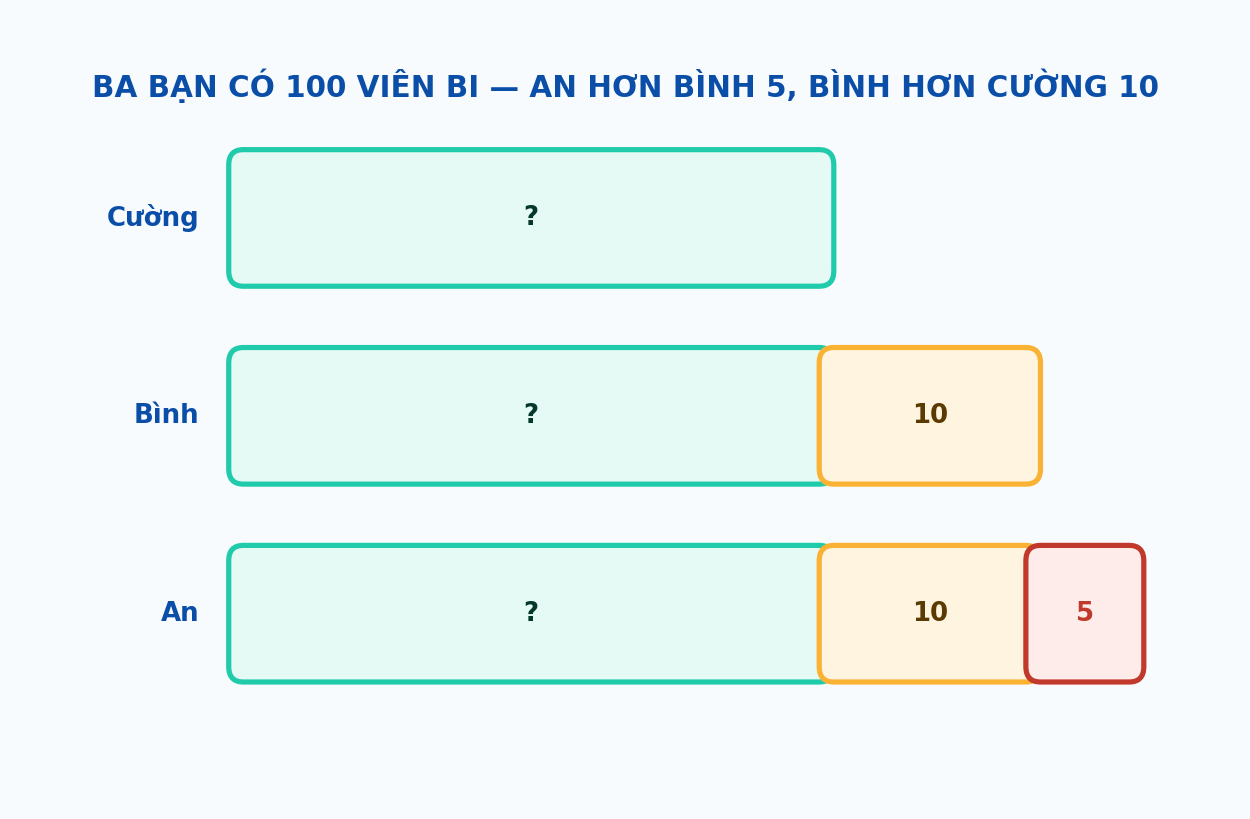
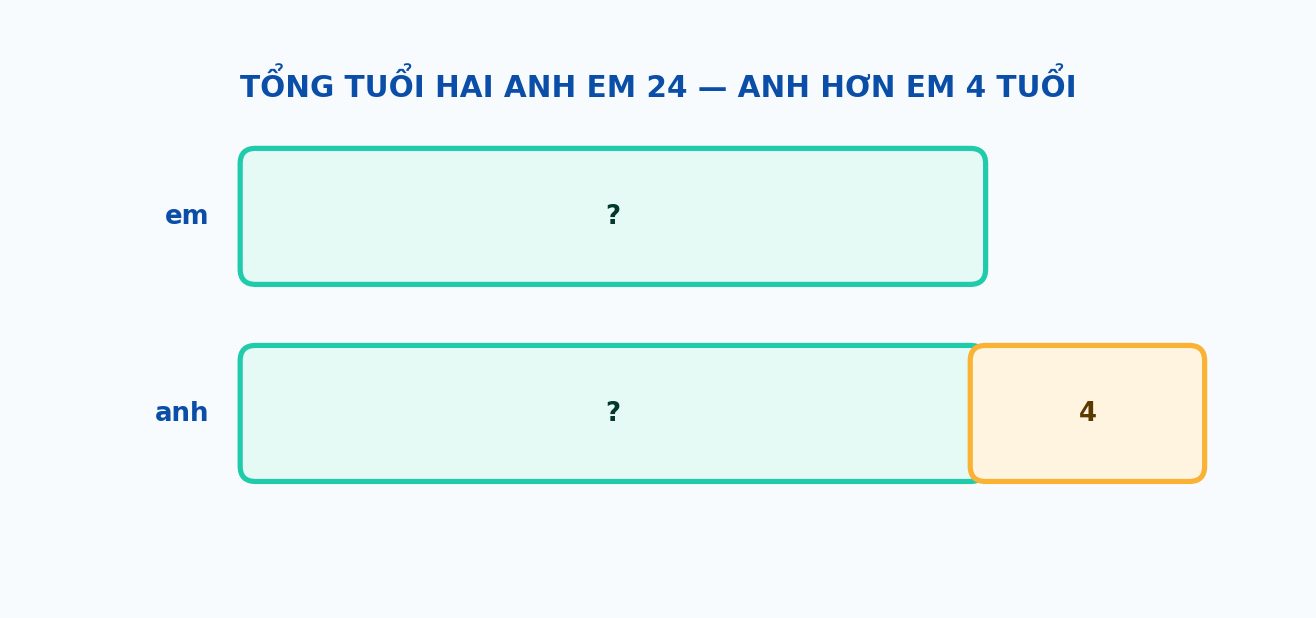
Màn mở bài: bỏ chỗ lộ đáp, trả lại ĐỀ BÀI đủ nghĩa
Bác đọc mở bài phần chuyển động mà không hiểu gì. Mở ra xem thì có ba lỗi
chồng lên nhau, và cả ba đều nằm ở chỗ bé đọc ĐẦU TIÊN.

1 · MỞ BÀI IN SẴN CÂU CHỐT — tức lộ hết cách làm.
`StepView` in `knowledgeCore.mantra` bằng chữ to nhất màn hình ngay màn đầu,
trước khi bé thấy bài toán nào: "TRÊN VÒNG TRÒN, KHOẢNG CÁCH CẦN GẶM LÀ CẢ MỘT
VÒNG!". Hỏng hai đường — mất hết lý do phải nghĩ, mà câu chốt lúc ấy cũng vô
nghĩa vì bé chưa có gì để gắn nó vào. `buildFlow` vốn ĐÃ có riêng một bước
`mantra` đặt sau khi giảng xong và sau câu tự kiểm, đúng chỗ của nó; hộp ở màn
mở chỉ là bản sao đặt nhầm chỗ. Nay thay bằng một câu mời, và nút đổi thành
"Xem bài toán ▶".

2 · 38/44 LỜI DẪN LỚP 4 LÀ MẨU CÂU CỤT.
"sau bao nhiêu giờ xe buýt đuổi kịp xe đồ." — không biết xe nào, cách nhau bao
xa, đi nhanh chậm ra sao, mà lại viết thường ngay chữ đầu. Do đợt trước chữa
bẫy 32 tôi chỉ lấy dòng `HỎI GÌ?` của mục ③, bỏ mất dòng `CHO GÌ?` — nơi chứa
toàn bộ dữ kiện. Nay ghép cả hai, vẫn không dựng câu mới:

  Xe đồ ở trước 30 km, mỗi giờ đi 30 km; xe buýt mỗi giờ đi 40 km, đuổi theo
  cùng chiều. Hỏi sau bao nhiêu giờ xe buýt đuổi kịp xe đồ?

Phân biệt câu HỎI với câu SAI KHIẾN: "Hỏi tìm X" không phải tiếng Việt, nên
câu sai khiến đứng một mình và đóng bằng dấu chấm.

3 · BA BÀI CÒN SÓT BẪY 32 — lời và hình kể HAI bài toán khác nhau:
  B22 lời "tổng tuổi hai anh em 24"      · hình vẽ "ba bạn có 100 viên bi"
  B33 lời "bánh 3/4 và 5/8"              · hình hỏi "7/8 hay 9/10"
[…]

Changed region(s): [[0.0624, 0.0922, 0.936, 0.8608], [0.1248, 0.7379, 0.156, 0.7686]]

diff --git a/web/src/components/StepView.jsx b/web/src/components/StepView.jsx
@@ -33,6 +33,15 @@ export default function StepView({ step, lesson, onNext, onJump, onRecord, log, 
   switch (step.type) {
     /* ══ MỞ BÀI ══ */
     case 'intro':
+      /* ── VÌ SAO MÀN NÀY KHÔNG CÒN IN CÂU CHỐT ──
+         Trước đây ngay dưới đây là một hộp vàng chữ to in nguyên `knowledgeCore.mantra`
+         — tức TOÀN BỘ cách làm của bài. Bé chưa thấy đề bài nào đã được đọc đáp. Hỏng
+         hai đường: mất hết lý do phải nghĩ, mà câu chốt lúc ấy cũng vô nghĩa vì bé chưa
+         có gì để gắn nó vào. `buildFlow` vốn đã có RIÊNG một bước `mantra` đặt SAU khi
+         giảng xong và sau câu tự kiểm — đúng chỗ của nó. Nên hộp ở đây chỉ là bản sao
+         đặt nhầm chỗ, bỏ đi là hết lộ bài mà không mất gì.
+
+         Thay vào là câu MỜI, nói bé sắp làm gì chứ không nói trước kết quả. */
       return (<>
         <div className="card">
           <div className="kicker">MICRO · KHOẢNG {lesson.durationMinutes} PHÚT</div>
@@ -55,10 +64,11 @@ export default function StepView({ step, lesson, onNext, onJump, onRecord, log, 
             Đường đi của bài: <b>Giảng nguyên tắc → Xem bài mẫu → Tự luyện → Sát hạch lấy huy hiệu</b>
           </div>
         </div>
-        <div className="rounded-2xl bg-gradient-to-br from-gold to-[#fcd88a] px-4 py-5 text-center text-[19px] font-extrabold leading-snug text-gold-dark">
-          🔑 {K.mantra}
+        <div className="rounded-2xl bg-gradient-to-br from-gold to-[#fcd88a] px-4 py-4 text-center text-[17px] font-extrabold leading-snug text-gold-dark">
+          Mình bắt đầu bằng một bài toán nhé — con thử nghĩ trước,
+          rồi mình cùng tìm cách làm.
         </div>
-        <Foot label="Bắt đầu ▶" onClick={onNext} />
+        <Foot label="Xem bài toán ▶" onClick={onNext} />
       </>);
 
     case 'hook':

diff --git a/tools/khuon_chung.py b/tools/khuon_chung.py
@@ -45,6 +45,40 @@ R_BUOC = re.compile(r'^(?:' + '|'.join(TEN_BUOC) + r')\s*\d+\s*[.—–-]'
                     r'|^(?:MẸO|LUẬT)[^:]*:')
 
 
+def _hoa_dau(s):
+    """Viết hoa chữ cái đầu, giữ nguyên phần còn lại.
+
+    `str.capitalize()` thì hạ chữ hoa ở phần sau xuống thường — mà đề bài đầy tên
+    riêng và đơn vị viết hoa (Trí Long, TỔNG, km/h), nên phải chừa chúng ra.
+    """
+    s = (s or '').lstrip()
+    return s[:1].upper() + s[1:] if s else s
+
+
+# Động từ mở đầu một câu SAI KHIẾN. "Hỏi tìm X" hay "Hỏi đọc số ấy" không phải
+# tiếng Việt — câu sai khiến đứng một mình đã đủ nghĩa, chỉ câu HỎI mới cần chữ
+# "Hỏi" dẫn vào. Danh sách lấy từ chính 44 dòng `HỎI GÌ?` của sách lớp 4.
+_SAI_KHIEN = ('đọc', 'viết', 'tìm', 'tính', 'lập', 'nêu', 'so sánh', 'xếp', 'đếm',
+              'vẽ', 'kiểm chứng', 'chứng minh', 'giải thích', 'chọn', 'điền',
+              'tách', 'ghép', 'phân tích', 'sắp xếp', 'dựng', 'đổi', 'gọi tên',
+              'chỉ ra', 'liệt kê', 'hoàn thành')
+
+
+def _thanh_cau_hoi(hoi):
+    """Dòng `HỎI GÌ?` → một câu đứng được một mình.
+
+    Câu HỎI thì thêm chữ "Hỏi" dẫn vào và đóng bằng dấu hỏi; câu SAI KHIẾN thì để
+    nguyên và đóng bằng dấu chấm. Cắt dấu câu cũ trước khi đóng, nếu không dòng
+    nào sẵn dấu hỏi sẽ thành "??".
+    """
+    h = re.sub(r'\s*[.?!…]+\s*$', '', (hoi or '').strip())
+    if not h:
+        return ''
+    if h.lower().startswith(_SAI_KHIEN):
+        return f'{_hoa_dau(h)}.'
+    return f'Hỏi {h}?'
+
+
 def _dong(bai, ten):
     return list((bai['muc'].get(ten) or {}).get('dong') or [])
 
@@ -107,14 +141,32 @@ def sang_khuon_chung(bai, truoc=None, sau=None, dap_an=None):
         # nên lấy đề của ⑥ là lời và hình kể hai bộ số đá nhau ngay dòng đầu bé đọc —
         # đúng bẫy 32, và tôi đã nhìn thấy nó trên màn hình thật trước khi chữa.
         #
-        # Mục ③ có sẵn dòng `HỎI GÌ?` do chính người soạn viết, đủ 44/44 bài, và nó
-        # nói đúng câu hỏi của tình huống mở. Quyển nào không có mục ấy thì rơi về
-        # nếp cũ, nên lớp 2 và lớp 3 không đổi một chữ.
-        hoi_gi = next((re.sub(r'^HỎI GÌ\?\s*', '', d) for d in _dong(bai, 'dichMoHinh')
-                       if d.startswith('HỎI GÌ?')), '')
-        de_bai = hoi_gi or re.sub(
-            r'^Đề bài\s*[:.]\s*', '',
-            next((d for d in _dong(bai, 'viDuMau') if d.startswith('Đề bài')), ''))
+        # Mục ③ có sẵn hai dòng `CHO GÌ?` và `HỎI GÌ?` do chính người soạn viết, đủ
+        # 44/44 bài, và cả hai nói về ĐÚNG bài toán của tình huống mở. Quyển nào
+        # không có mục ấy thì rơi về nếp cũ, nên lớp 2 và lớp 3 không đổi một chữ.
+        #
+        # ⚠ BẢN ĐẦU CHỈ LẤY `HỎI GÌ?` — VÀ ĐÓ LÀ MỘT MẨU CÂU CỤT.
+        # "sau bao nhiêu giờ xe buýt đuổi kịp xe đồ." Đọc lên không biết xe nào,
+        # cách nhau bao xa, đi nhanh chậm ra sao — 38/44 bài lớp 4 mở ra là một
+        # mẩu như thế, viết thường ngay chữ đầu. Dữ kiện nằm hết ở `CHO GÌ?` mà
+        # dòng ấy bị bỏ. Nay ghép cả hai thành một đề đọc được:
+        #
+        #     Xe đồ ở trước 30 km, mỗi giờ đi 30 km; xe buýt mỗi giờ đi 40 km,
+        #     đuổi theo cùng chiều. Hỏi sau bao nhiêu giờ xe buýt đuổi kịp xe đồ?
+        #
+        # Vẫn không dựng câu mới (chuẩn mục 6 luật 1) — chỉ nối hai dòng người soạn
+        # đã viết, viết hoa chữ đầu và đổi dấu chấm cuối thành dấu hỏi.
+        def _muc3(nhan):
+            return next((re.sub(rf'^{nhan}\?\s*', '', d) for d in _dong(bai, 'dichMoHinh')
+                         if d.startswith(f'{nhan}?')), '')
+
+        cho_gi, hoi_gi = _muc3('CHO GÌ'), _muc3('HỎI GÌ')
+        if cho_gi and hoi_gi:
+            de_bai = f'{_hoa_dau(cho_gi)} {_thanh_cau_hoi(hoi_gi)}'
+        else:
+            de_bai = hoi_gi or re.sub(
+                r'^Đề bài\s*[:.]\s*', '',
+                next((d for d in _dong(bai, 'viDuMau') if d.startswith('Đề bài')), ''))
         cau_dau = re.split(r'(?<=[.!?])\s+', ' '.join(mo))[0]
         # Câu dẫn CHỈ giữ khi không có con số nào: chuyện mở bài hay kể một bộ số
         # khác với bộ số của đề ("ba tấm thẻ 2, 5, 8" rồi đề lại cho 4, 0, 9) — ghép
